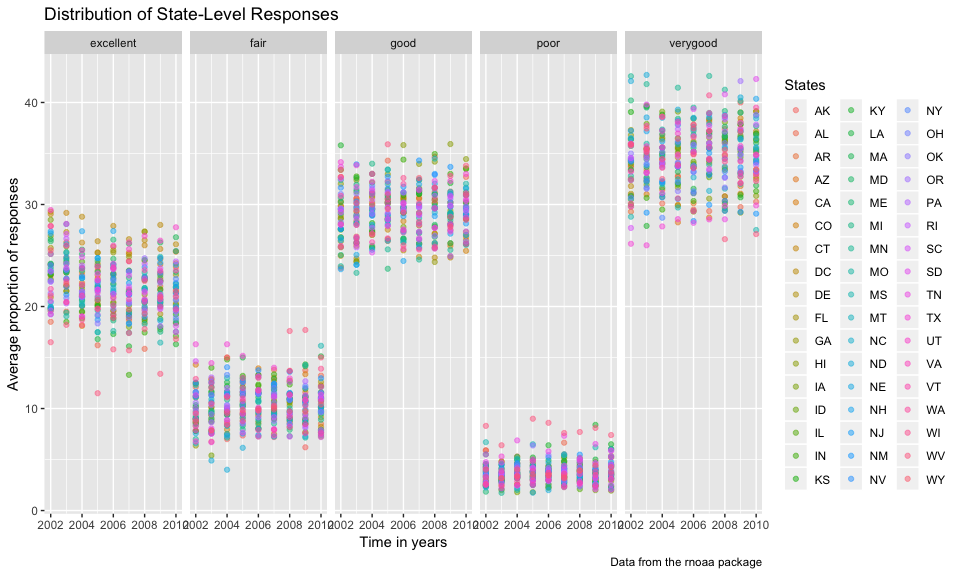
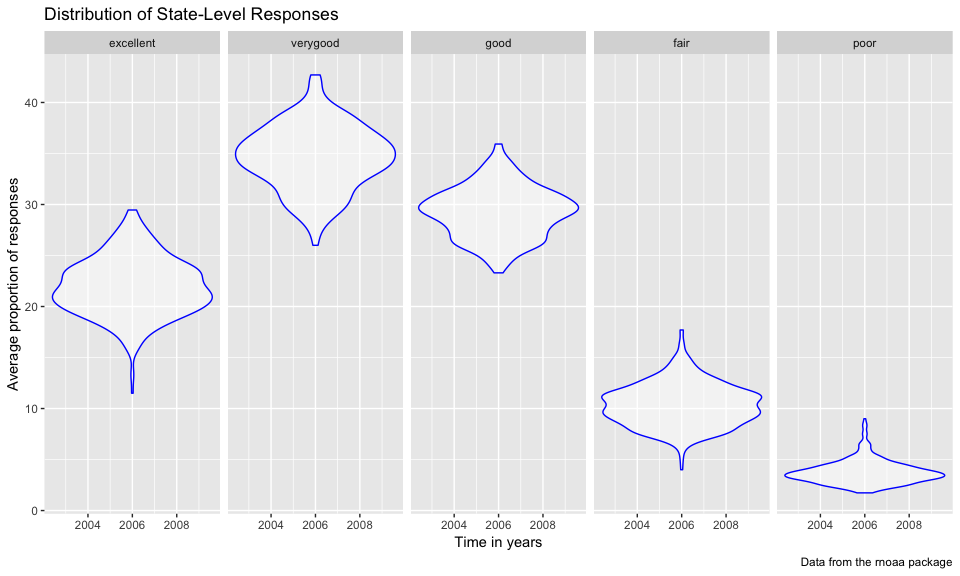
Making edits to problem 1 and 2

diff --git a/p8105_hw3_kb2977.md b/p8105_hw3_kb2977.md
@@ -71,28 +71,33 @@ brfss_data_2002
     ## 2 FL               7
     ## 3 NC               7
 
--   Make a “spaghetti plot” that shows the number of observations in each state from 2002 to 2010.
-
-``` r
-state_plot = brfss_data %>% 
-  group_by(locationabbr, year) %>% 
-  summarize(n_obs = n()) %>%
-  ggplot(aes(x = year, y = n_obs, color = locationabbr)) +
-    geom_line()
-state_plot
-```
-
-![](p8105_hw3_kb2977_files/figure-markdown_github/state_plot-1.png)
+-   Below is a “spaghetti plot” that shows the number of observations in each state from 2002 to 2010.
 
 ``` r
 knitr::opts_chunk$set(
   fig.width = 10,
   fig.asp = .6,
   out.width = "100%"
-)
+  )
+
+state_plot = brfss_data %>% 
+  group_by(locationabbr, year) %>% 
+  summarize(n_obs = n()) %>%
+  ggplot(aes(x = year, y = n_obs, color = locationabbr)) +
+    geom_line() +
+    labs(
+        title = "Observations in Each State",
+        x = "Time in years",
+        y = "Number of Observations",
+        caption = "Data from the brfss package"
+    ) +
+    scale_color_hue(name = "States")
+state_plot
 ```
 
--   Make a table showing, for the years 2002, 2006, and 2010, the mean and standard deviation of the proportion of “Excellent” responses across locations in NY State.
+![](p8105_hw3_kb2977_files/figure-markdown_github/state_plot-1.png)
+
+-   Below is a table showing, for the years 2002, 2006, and 2010, the mean and standard deviation of the proportion of “Excellent” responses across locations in NY State.
 
 ``` r
 table_data = 
@@ -106,7 +111,7 @@ table_data =
   knitr::kable(digits = 1)
 ```
 
--   For each year and state, compute the average proportion in each response category (taking the average across locations in a state). Make a five-panel plot that shows, for each response category separately, the distribution of these state-level averages over time.
+-   Below is a five-panel plot that shows, for each response category separately, the distribution of state-level averages over time.
 
 ``` r
 devtools::install_github("thomasp85/patchwork")
@@ -140,20 +145,20 @@ av_prop_plot =
   gather(key = response, value = mean, av_prop_excellent:av_prop_poor) %>% 
   separate(response, into = c("remove_1", "remove_2", "response"), sep = "_") %>% 
   select(-remove_1,-remove_2) %>% 
-  ggplot(aes(x = year, y = mean, color = locationabbr)) +
-  geom_point(alpha = .5) +
-  facet_grid(~response) +
-  labs(
-    title = "Distribution of State-Level Responses",
-    x = "Time in years",
-    y = "Average proportion of responses",
-    caption = "Data from the rnoaa package"
-  ) +
-  scale_color_hue(name = "States")
+  mutate(response = forcats::fct_relevel(response, c("excellent", "verygood", "good", "fair", "poor"))) %>% 
+  ggplot(aes(x = year, y = mean)) +
+    geom_violin(aes(), color = "blue", alpha = .5) +
+    facet_grid(~response) +
+    labs(
+        title = "Distribution of State-Level Responses",
+        x = "Time in years",
+        y = "Average proportion of responses",
+        caption = "Data from the rnoaa package"
+    )
 av_prop_plot
 ```
 
-    ## Warning: Removed 21 rows containing missing values (geom_point).
+    ## Warning: Removed 21 rows containing non-finite values (stat_ydensity).
 
 <img src="p8105_hw3_kb2977_files/figure-markdown_github/plot-1.png" width="100%" />
 
@@ -162,24 +167,48 @@ Problem 2
 
 ``` r
 data(instacart)
+library(forcats)
 ```
 
 ### Part 1: Exploration of instacart dataset
 
 Directions: Write a short description of the dataset, noting the size and structure of the data, describing some key variables, and giving illustrative examples of observations.
 
--   There were orders placed.
+-   There were 131209 orders placed.
 -   The average number of items ordered in this dataset is
--   The user\_id with the most orders was
--   The item that was the most ordered was
--   The item that was the most reordered was
+
+``` r
+instacart %>% 
+  group_by(order_id) %>% 
+  count(order_id) %>% 
+  summarize(ave_item = mean(n))
+```
+
+    ## # A tibble: 131,209 x 2
+    ##    order_id ave_item
+    ##       <int>    <dbl>
+    ##  1        1        8
+    ##  2       36        8
+    ##  3       38        9
+    ##  4       96        7
+    ##  5       98       49
+    ##  6      112       11
+    ##  7      170       17
+    ##  8      218        5
+    ##  9      226       13
+    ## 10      349       11
+    ## # ... with 131,199 more rows
+
+-   The user\_id with the most orders was 149753.
+-   The item that was the most ordered was Banana.
+-   The item that was the most reordered was .
 -   Customers tend to order on \_\_\_ day at around \_\_\_ time.
 
 ### Part 2: Answering questions using instacart\_data
 
-1.  How many aisles are there, and which aisles are the most items ordered from? There were a total of 134 aisles.
+-   How many aisles are there, and which aisles are the most items ordered from? There were a total of 134 aisles.
 
-2.  The following aisles had the most items ordered:
+-   The following aisles had the most items ordered:
 
 | aisle                      |       n|
 |:---------------------------|-------:|
@@ -189,33 +218,74 @@ Directions: Write a short description of the dataset, noting the size and struct
 | packaged vegetables fruits |   78493|
 | yogurt                     |   55240|
 
-1.  Make a plot that shows the number of items ordered in each aisle. Order aisles sensibly, and organize your plot so others can read it.
+-   Below is a plot that shows the number of items ordered in each aisle. Order aisles sensibly, and organize your plot so others can read it.
 
 ``` r
 items_ordered = 
   instacart %>% 
-  count(aisle_id) %>% 
-  arrange(desc(n)) %>% 
-  ggplot(aes(x = aisle_id, y = n)) +
-  geom_point(alpha = 0.5, size = .8) +
+  count(aisle) %>%
+  mutate(aisle = forcats::fct_reorder(aisle, desc(n))) %>% 
+  ggplot(aes(x = aisle, y = n)) +
+  geom_bar(stat = "identity") +
+  theme(axis.text.x = element_text(angle = 45, hjust = 1), text = element_text(size = 7)) +
   labs(
-    title = "Plot of Items Ordered in Each Aisle",
-    x = "Aisle ID",
-    y = "Number of items",
-    caption = "Data from the instacart package"
+      title = "Plot of Items Ordered in Each Aisle",
+      x = "Aisle Name",
+      y = "Number of items",
+      caption = "Data from the instacart package"
   )
 items_ordered
 ```
 
-<img src="p8105_hw3_kb2977_files/figure-markdown_github/unnamed-chunk-1-1.png" width="100%" />
+<img src="p8105_hw3_kb2977_files/figure-markdown_github/unnamed-chunk-2-1.png" width="100%" />
 
-1.  Make a table showing the most popular item in the aisles “baking ingredients”, “dog food care”, and “packaged vegetables fruits”
+-   Below is a table showing the top 3 popular items in the aisles “baking ingredients”, “dog food care”, and “packaged vegetables fruits”.
 
 ``` r
-pop_item = instacart
+pop_item = 
+  instacart %>% 
+  filter(aisle == "baking ingredients" | aisle == "dog food care" | aisle == "packaged vegetables fruits") %>% 
+  group_by(aisle) %>% 
+  count(product_name) %>% 
+  top_n(3) %>% 
+  knitr::kable(digits = 1)
 ```
 
-1.  Make a table showing the mean hour of the day at which Pink Lady Apples and Coffee Ice Cream are ordered on each day of the week; format this table for human readers (i.e. produce a 2 x 7 table).
+    ## Selecting by n
+
+``` r
+pop_item
+```
+
+| aisle                      | product\_name                                 |     n|
+|:---------------------------|:----------------------------------------------|-----:|
+| baking ingredients         | Cane Sugar                                    |   336|
+| baking ingredients         | Light Brown Sugar                             |   499|
+| baking ingredients         | Pure Baking Soda                              |   387|
+| dog food care              | Organix Chicken & Brown Rice Recipe           |    28|
+| dog food care              | Small Dog Biscuits                            |    26|
+| dog food care              | Snack Sticks Chicken & Rice Recipe Dog Treats |    30|
+| packaged vegetables fruits | Organic Baby Spinach                          |  9784|
+| packaged vegetables fruits | Organic Blueberries                           |  4966|
+| packaged vegetables fruits | Organic Raspberries                           |  5546|
+
+-   Below is a table showing the mean hour of the day at which Pink Lady Apples and Coffee Ice Cream are ordered on each day of the week; format this table for human readers (i.e. produce a 2 x 7 table).
+
+``` r
+mean_hour_table = 
+  instacart %>% 
+  filter(product_name == "Pink Lady Apples" | product_name == "Coffee Ice Cream") %>% 
+  group_by(order_dow, product_name) %>% 
+  summarize(mean_hr = mean(order_hour_of_day)) %>% 
+  spread(key = order_dow, value = mean_hr) %>% 
+  knitr::kable(digits = 1)
+mean_hour_table
+```
+
+| product\_name    |     0|     1|     2|     3|     4|     5|     6|
+|:-----------------|-----:|-----:|-----:|-----:|-----:|-----:|-----:|
+| Coffee Ice Cream |  13.8|  14.3|  15.4|  15.3|  15.2|  12.3|  13.8|
+| Pink Lady Apples |  13.4|  11.4|  11.7|  14.2|  11.6|  12.8|  11.9|
 
 Problem 3
 ---------
@@ -232,7 +302,7 @@ Directions: Write a short description of the dataset, noting the size and struct
 
 ### Part 2: Answering questions using ny\_noaa datset
 
-1.  Create separate variables for year, month, and day. Ensure observations for temperature, precipitation, and snowfall are given in reasonable units.
+-   Create separate variables for year, month, and day. Ensure observations for temperature, precipitation, and snowfall are given in reasonable units.
 
 ``` r
 ny_noaa_data = 
@@ -244,6 +314,6 @@ ny_noaa_data =
 
 For snowfall, the most commonly observed value was 0. This is because most days of the year, it does not snow.
 
-1.  Make a two-panel plot showing the average temperature in January and in July in each station across years. Is there any observable / interpretable structure? Any outliers?
+-   Make a two-panel plot showing the average temperature in January and in July in each station across years. Is there any observable / interpretable structure? Any outliers?
 
-2.  Make a two-panel plot showing (i) tmax vs tmin for the full dataset (note that a scatterplot may not be the best option); and (ii) make a plot showing the distribution of snowfall values greater than 0 and less than 100 separately by year.
+-   Make a two-panel plot showing (i) tmax vs tmin for the full dataset (note that a scatterplot may not be the best option); and (ii) make a plot showing the distribution of snowfall values greater than 0 and less than 100 separately by year.
